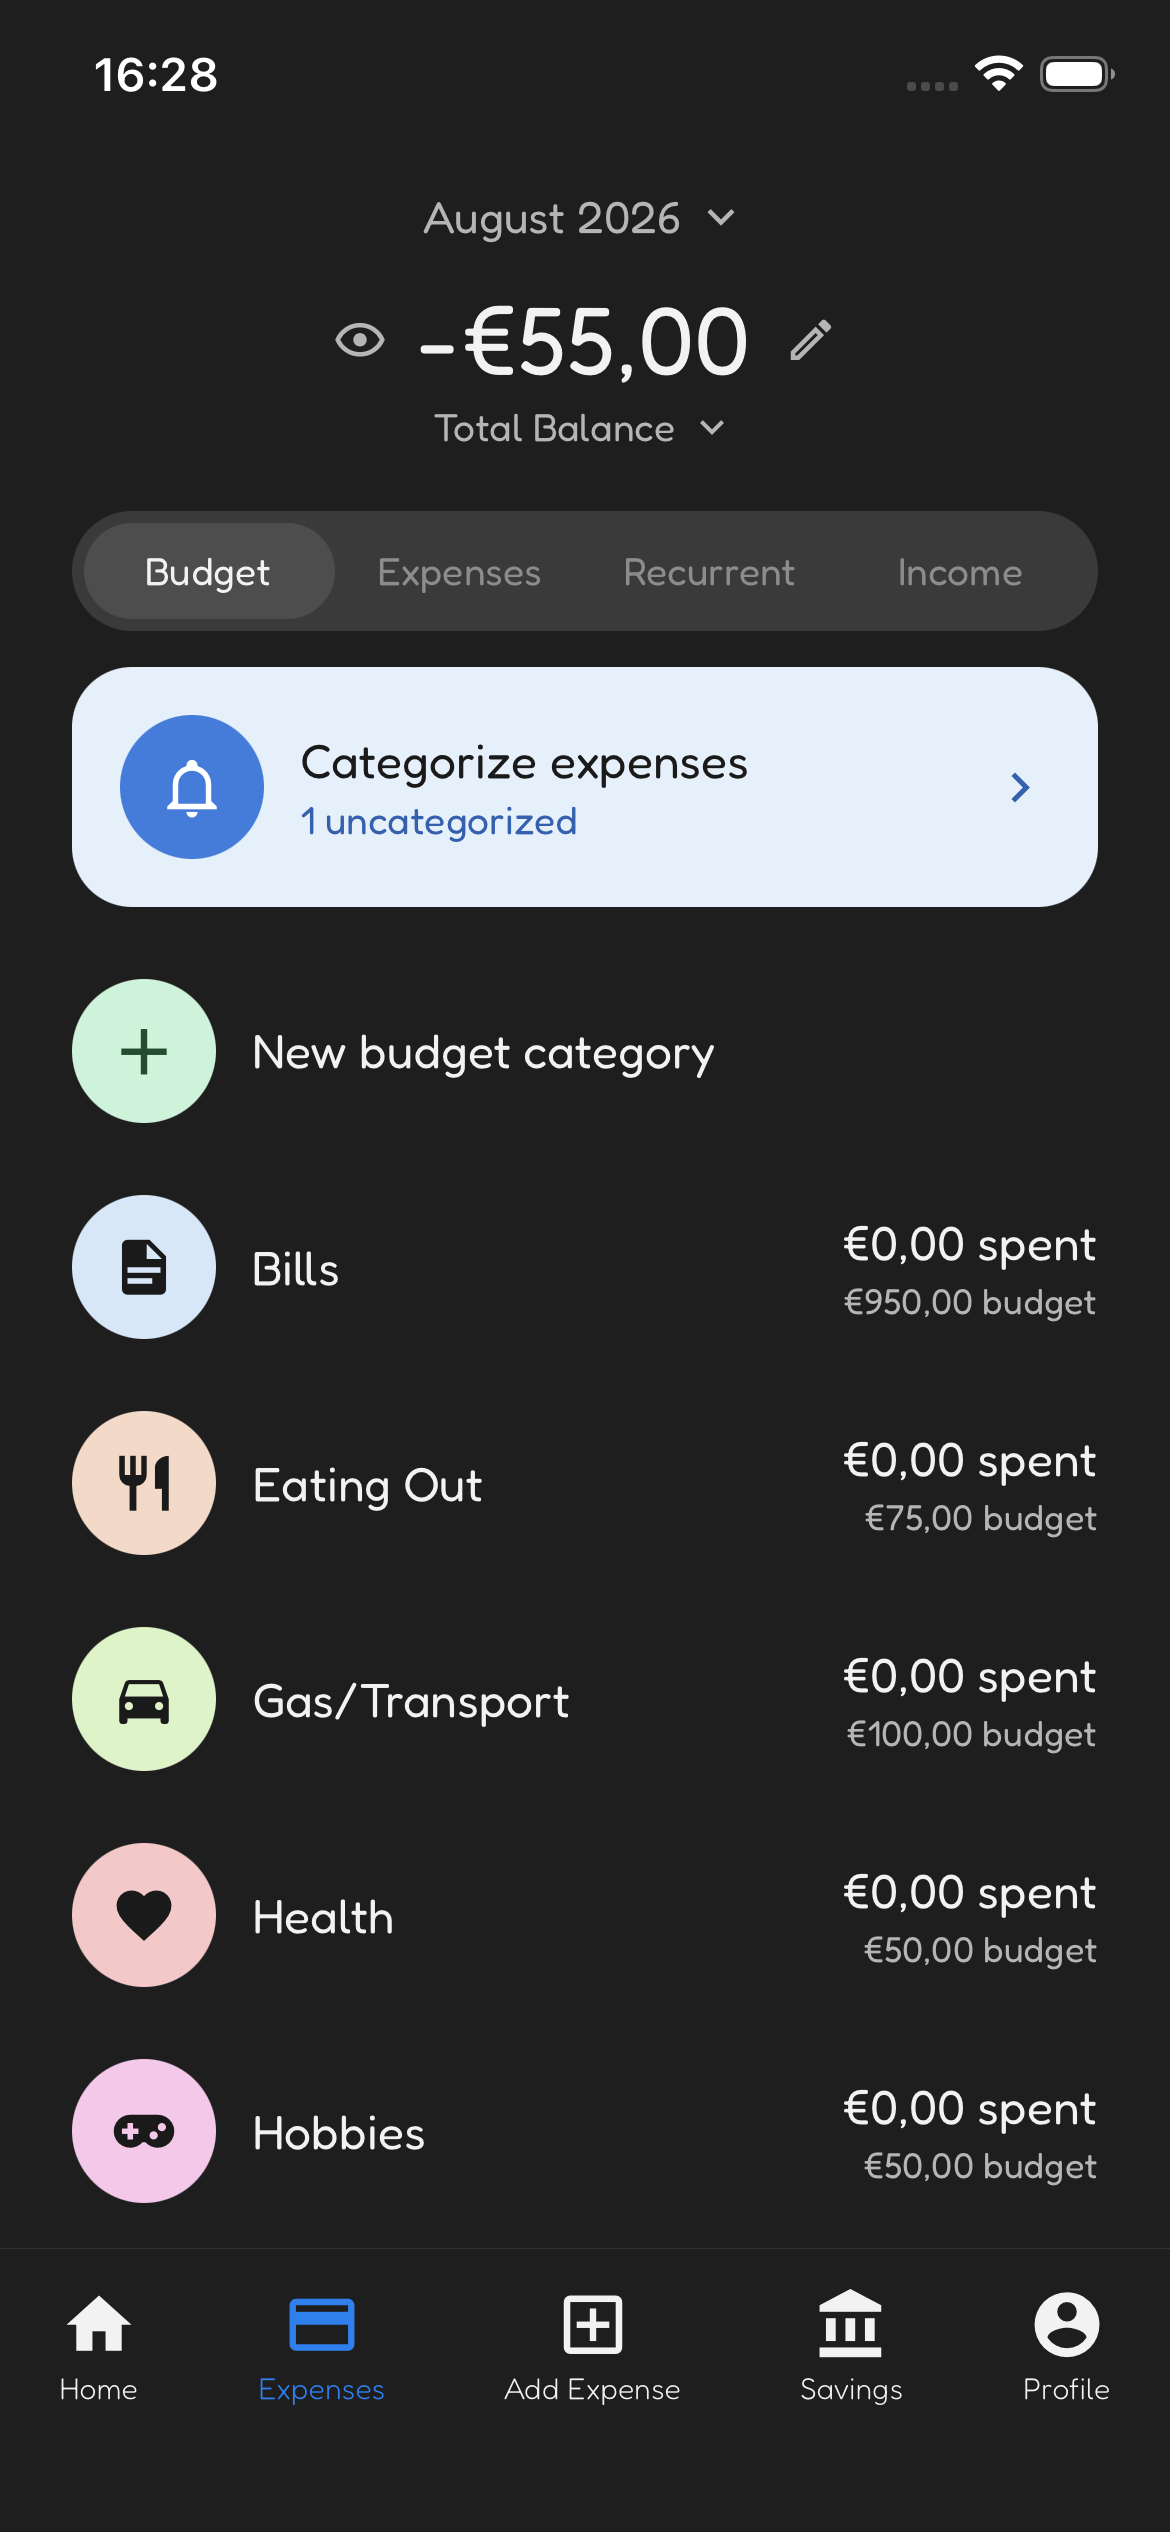
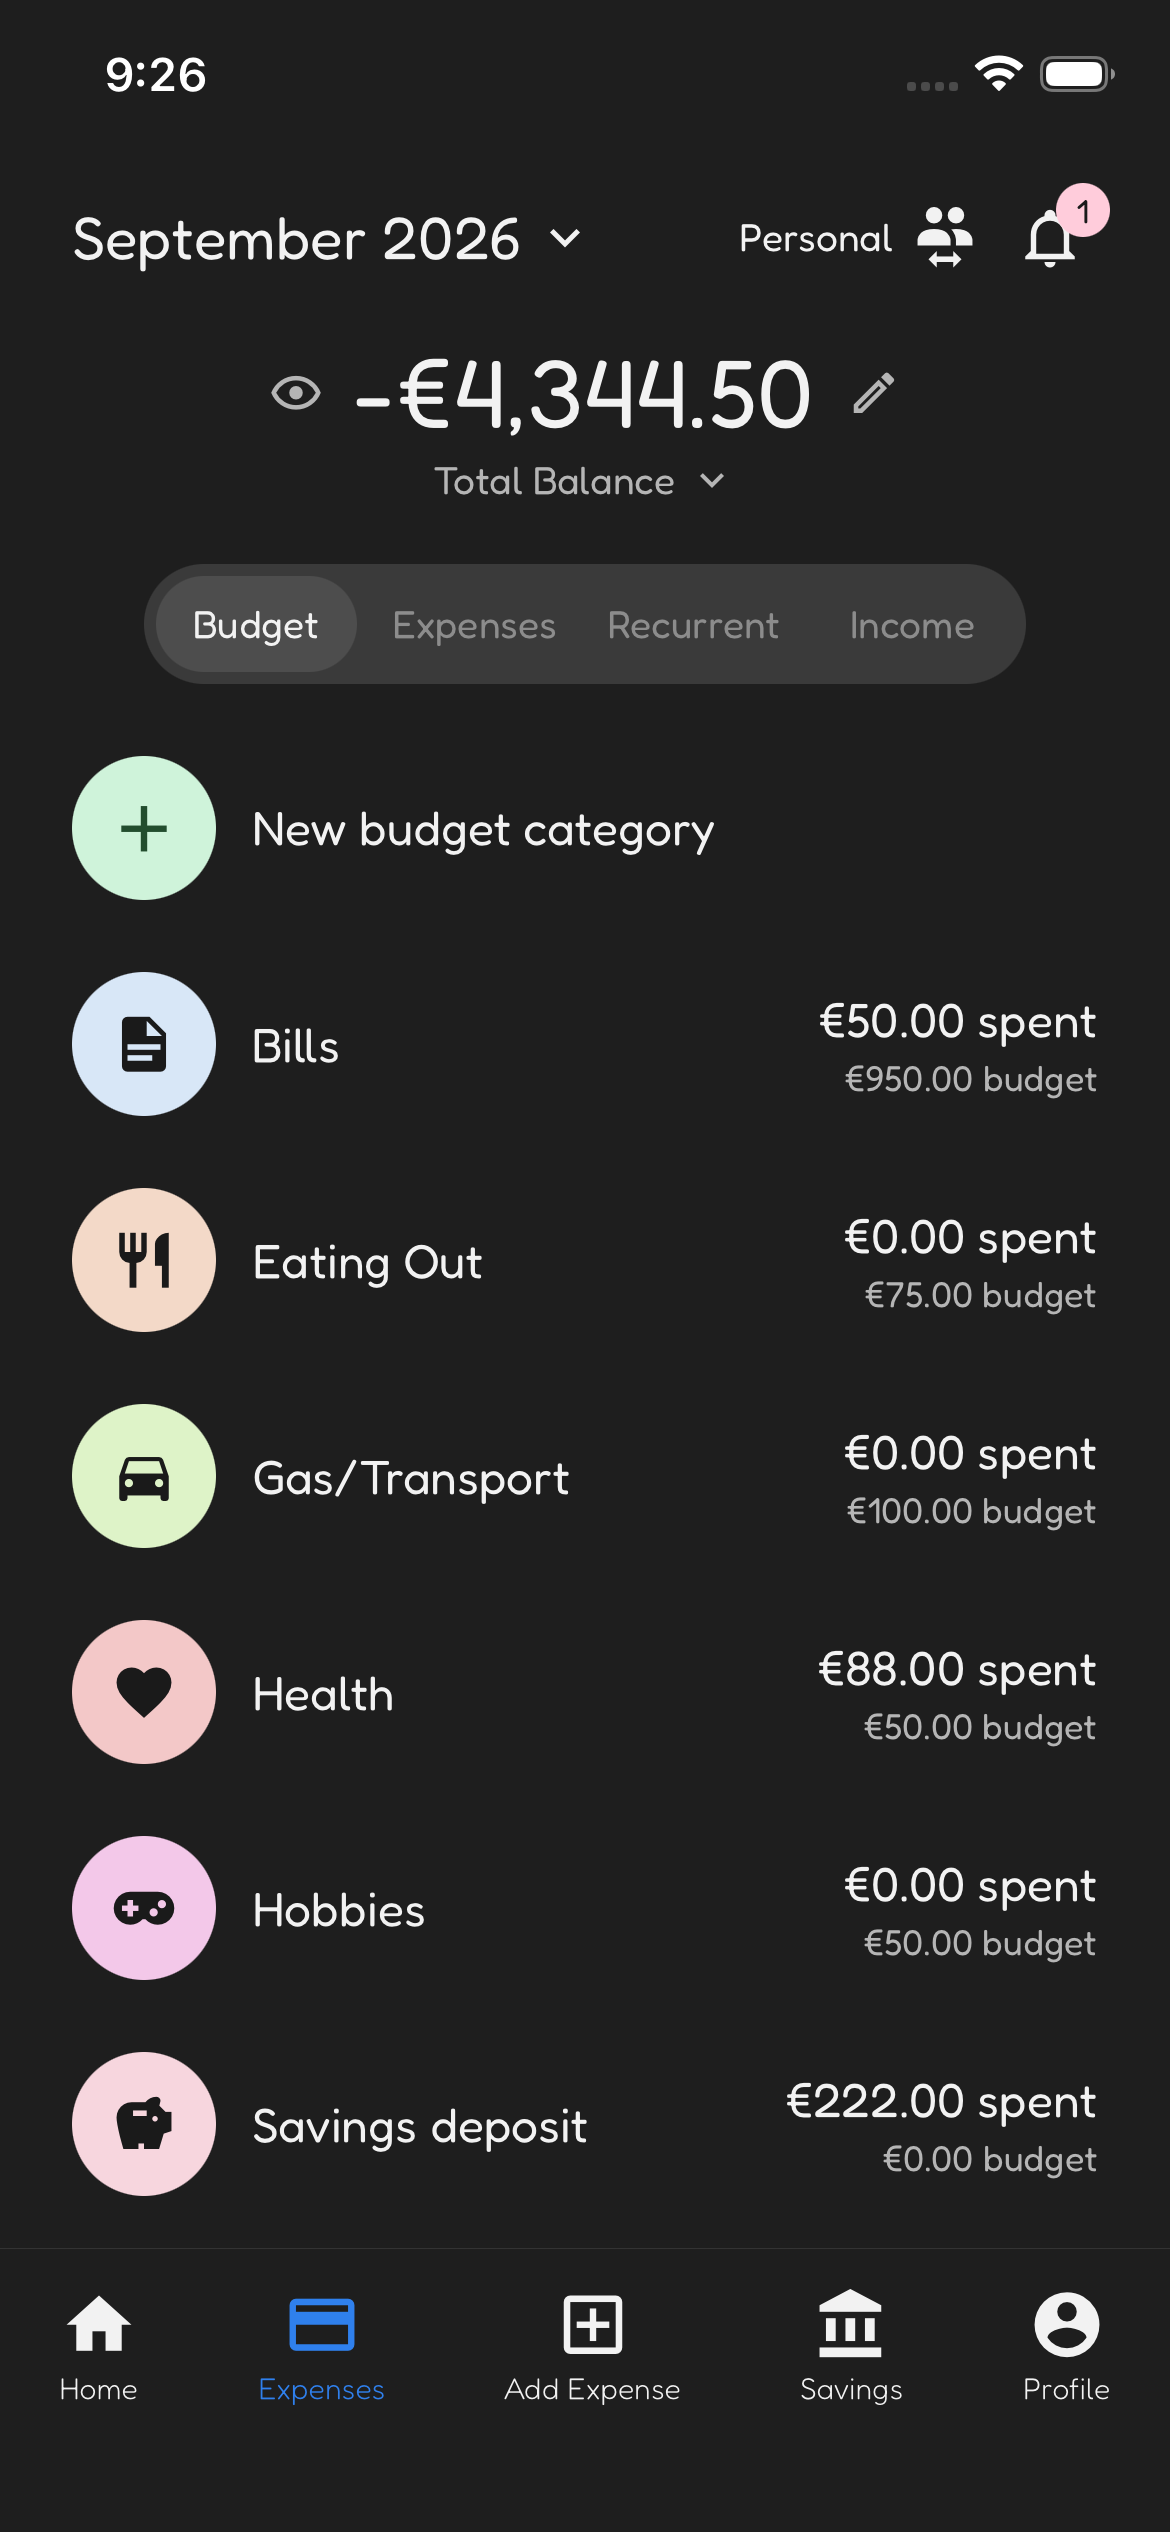
Add community/feedback section and refresh mobile screenshots
Adds a "Built with the people who use it" section ahead of the waitlist
CTA, emphasizing in-app feedback and a community-driven roadmap over
feature bloat. Also swaps in newly captured mobile screenshots for the
screenshot gallery, replacing the now-removed currency-settings shot
with the categorize screen.

Claude-Session: https://claude.ai/code/session_01XRzv7tPAt8xuBbttCcbT8e

diff --git a/src/i18n/ui.ts b/src/i18n/ui.ts
@@ -85,7 +85,7 @@ export const ui = {
       'Home, in dark mode',
       'Budget by category',
       'Savings funds',
-      'Currency settings',
+      'Categorize expenses',
     ],
 
     'getTheApp.heading': 'Web, iOS, and Android are all in progress',
@@ -131,6 +131,24 @@ export const ui = {
         question: 'When can I actually use it?',
         answer:
           "The web app is in staging and the iOS and Android apps are still in progress. Join the waitlist and we'll email you the moment any of them are ready.",
+      },
+    ],
+
+    'community.heading': 'Built with the people who use it',
+    'community.body':
+      "We don't want to build another bloated budget app with a feature for everything and a reason to use none of them. So the plan is to build what couples actually ask for, not what looks good on a features page.",
+    'community.points': [
+      {
+        title: 'Feedback, built in',
+        body: "A feedback option lives right in the app, so telling us what's missing or broken takes seconds, not a support ticket.",
+      },
+      {
+        title: 'You shape what comes next',
+        body: "The roadmap follows what people actually ask for. If enough of you need something, it moves up, if no one does, we don't build it just to have it.",
+      },
+      {
+        title: 'No bloat, on purpose',
+        body: "Every feature has to earn its place. If it doesn't help you manage money together, it doesn't make the cut.",
       },
     ],
 
@@ -240,7 +258,7 @@ export const ui = {
       'Início, em modo escuro',
       'Orçamento por categoria',
       'Fundos de poupança',
-      'Definições de moeda',
+      'Categorizar despesas',
     ],
 
     'getTheApp.heading': 'Web, iOS e Android estão todos em desenvolvimento',
@@ -286,6 +304,24 @@ export const ui = {
         question: 'Quando é que posso realmente usá-la?',
         answer:
           'A aplicação web está em staging e as aplicações iOS e Android ainda estão em desenvolvimento. Junta-te à lista de espera e enviamos-te um email assim que alguma delas estiver pronta.',
+      },
+    ],
+
+    'community.heading': 'Feita com quem a usa',
+    'community.body':
+      'Não queremos construir mais uma app de orçamento inchada, com uma funcionalidade para tudo e um motivo para não usar nenhuma delas. Por isso a ideia é construir o que os casais realmente pedem, não o que fica bem numa lista de funcionalidades.',
+    'community.points': [
+      {
+        title: 'Feedback, integrado',
+        body: 'Uma opção de feedback está mesmo dentro da app, para que dizer-nos o que falta ou está avariado demore segundos, não um pedido de suporte.',
+      },
+      {
+        title: 'Ajudas a decidir o que vem a seguir',
+        body: 'O roadmap segue o que as pessoas realmente pedem. Se muitos de vocês precisarem de algo, sobe na lista, se ninguém precisar, não o construímos só por construir.',
+      },
+      {
+        title: 'Sem inchaço, de propósito',
+        body: 'Cada funcionalidade tem de justificar o seu lugar. Se não ajudar a gerir o dinheiro em conjunto, não entra.',
       },
     ],
 
